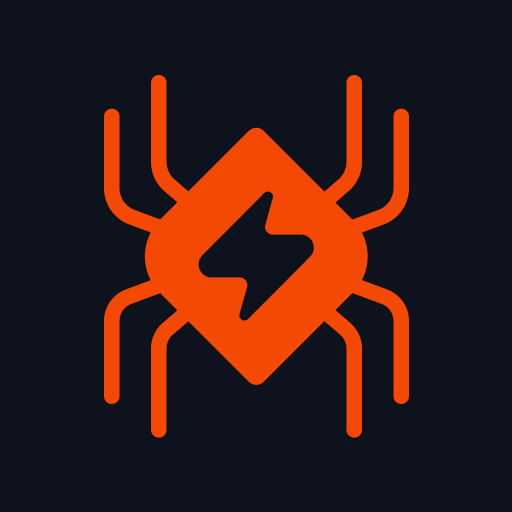
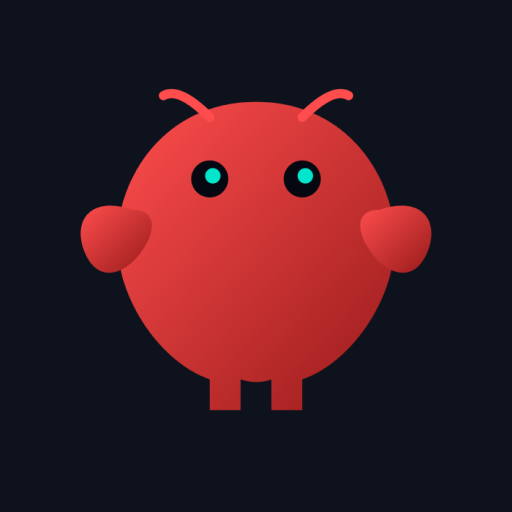
feat: update marketing page metadata, refine hero component, and add background gradient component

diff --git a/packages/ui/web/src/components/background-gradient.tsx b/packages/ui/web/src/components/background-gradient.tsx
@@ -1,0 +1,73 @@
+import { motion } from "motion/react";
+import React from "react";
+
+import { cn } from "@workspace/ui";
+
+export const BackgroundGradient = ({
+  children,
+  className,
+  containerClassName,
+  animate = true,
+}: {
+  children?: React.ReactNode;
+  className?: string;
+  containerClassName?: string;
+  animate?: boolean;
+}) => {
+  const variants = {
+    initial: {
+      backgroundPosition: "0 50%",
+    },
+    animate: {
+      backgroundPosition: ["0, 50%", "100% 50%", "0 50%"],
+    },
+  };
+  return (
+    <div className={cn("group wf relative p-[4px]", containerClassName)}>
+      <motion.div
+        variants={animate ? variants : undefined}
+        initial={animate ? "initial" : undefined}
+        animate={animate ? "animate" : undefined}
+        transition={
+          animate
+            ? {
+                duration: 5,
+                repeat: Infinity,
+                repeatType: "reverse",
+              }
+            : undefined
+        }
+        style={{
+          backgroundSize: animate ? "400% 400%" : undefined,
+        }}
+        className={cn(
+          "absolute inset-0 z-[1] rounded-3xl opacity-60 blur-xl transition duration-500 will-change-transform group-hover:opacity-100",
+          "bg-[radial-gradient(circle_farthest-side_at_0_100%,#00ccb1,transparent),radial-gradient(circle_farthest-side_at_100%_0,#7b61ff,transparent),radial-gradient(circle_farthest-side_at_100%_100%,#ffc414,transparent),radial-gradient(circle_farthest-side_at_0_0,#1ca0fb,#141316)]",
+        )}
+      />
+      <motion.div
+        variants={animate ? variants : undefined}
+        initial={animate ? "initial" : undefined}
+        animate={animate ? "animate" : undefined}
+        transition={
+          animate
+            ? {
+                duration: 5,
+                repeat: Infinity,
+                repeatType: "reverse",
+              }
+            : undefined
+        }
+        style={{
+          backgroundSize: animate ? "400% 400%" : undefined,
+        }}
+        className={cn(
+          "absolute inset-0 z-[1] rounded-3xl will-change-transform",
+          "bg-[radial-gradient(circle_farthest-side_at_0_100%,#00ccb1,transparent),radial-gradient(circle_farthest-side_at_100%_0,#7b61ff,transparent),radial-gradient(circle_farthest-side_at_100%_100%,#ffc414,transparent),radial-gradient(circle_farthest-side_at_0_0,#1ca0fb,#141316)]",
+        )}
+      />
+
+      <div className={cn("relative z-10", className)}>{children}</div>
+    </div>
+  );
+};

diff --git a/apps/web/src/modules/marketing/home/hero.tsx b/apps/web/src/modules/marketing/home/hero.tsx
@@ -1,12 +1,8 @@
 "use client";
 
-import { SocialProvider } from "@workspace/auth";
 import { useTranslation } from "@workspace/i18n";
-import { Button } from "@workspace/ui-web/button";
-import { Card, CardContent } from "@workspace/ui-web/card";
+import { Card } from "@workspace/ui-web/card";
 
-import { pathsConfig } from "~/config/paths";
-import { authClient } from "~/lib/auth/client";
 import { Section } from "~/modules/marketing/layout/section";
 
 export const Hero = () => {
@@ -22,21 +18,7 @@ export const Hero = () => {
         </p>
       </div>
 
-      <Card className="flex min-h-120 w-full min-w-0 flex-col gap-6 p-4 sm:gap-8 sm:p-6 md:w-[80%] md:gap-10 md:p-8">
-        <CardContent>
-          <Button
-            variant="outline"
-            onClick={() =>
-              authClient.signIn.social({
-                provider: SocialProvider.GITHUB,
-                callbackURL: pathsConfig.dashboard.user.index,
-              })
-            }
-          >
-            {SocialProvider.GITHUB}
-          </Button>
-        </CardContent>
-      </Card>
+      <Card></Card>
     </Section>
   );
 };

diff --git a/apps/web/src/app/[locale]/(marketing)/page.tsx b/apps/web/src/app/[locale]/(marketing)/page.tsx
@@ -1,8 +1,14 @@
 import { withI18n } from "@workspace/i18n/with-i18n";
 
+import { getMetadata } from "~/lib/metadata";
 import { Comparison } from "~/modules/marketing/home/comparison";
 import { Hero } from "~/modules/marketing/home/hero";
 import { UseCases } from "~/modules/marketing/home/use-cases";
+
+export const generateMetadata = getMetadata({
+  title: "common:product.title",
+  description: "common:product.description",
+});
 
 const HomePage = () => {
   return (

diff --git a/apps/web/src/modules/marketing/home/use-cases.tsx b/apps/web/src/modules/marketing/home/use-cases.tsx
@@ -197,6 +197,7 @@ export const UseCases = () => {
         <div className="flex w-full flex-col gap-2">
           {groups.map((group, index) => (
             <Marquee
+              key={index}
               reverse={index % 2 === 0}
               pauseOnHover
               className="[--duration:45s] [--gap:0.5rem] sm:[--gap:0.75rem]"